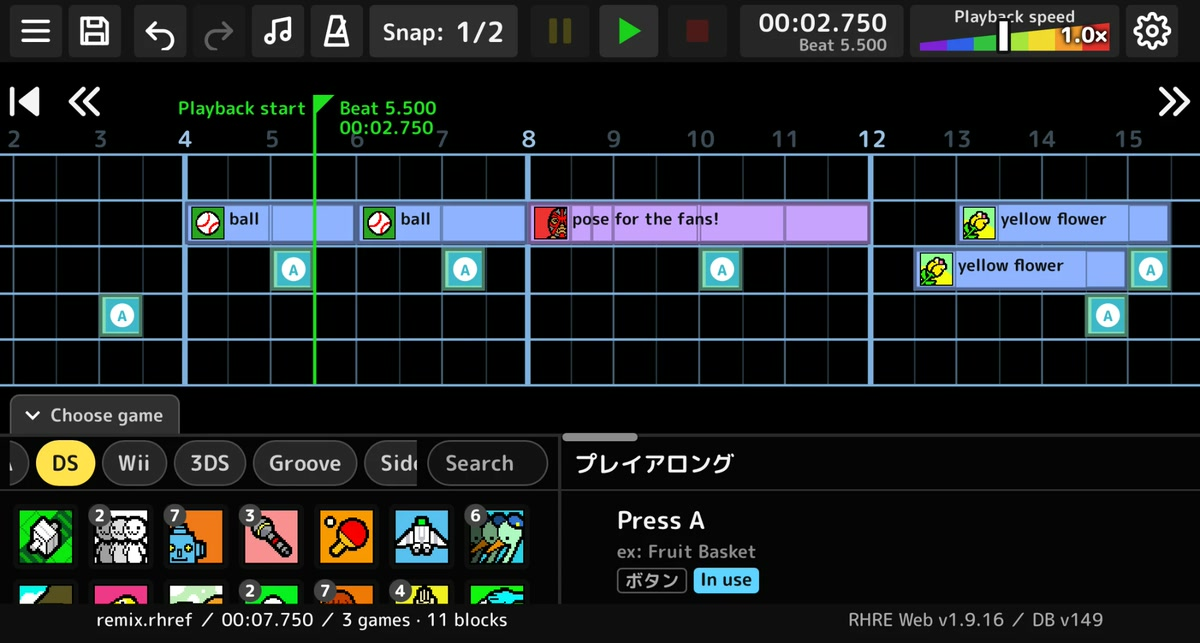
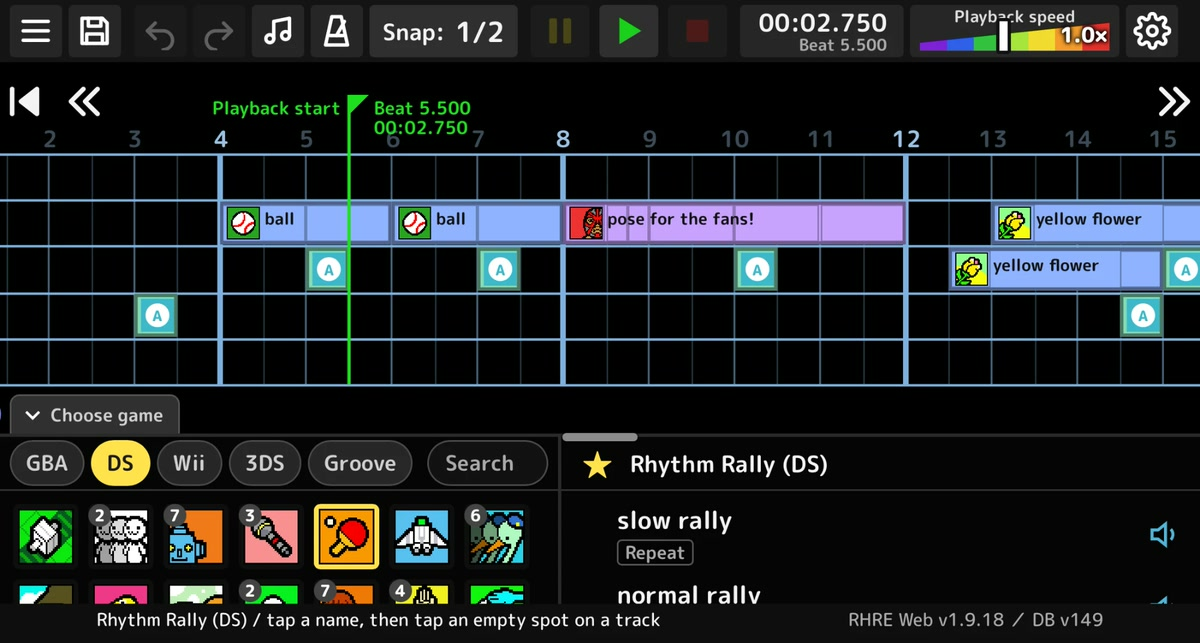
英語のページのリンクの画像を、本人が撮り直した英語の画面に差し替える（アプリは変わらないので版はそのまま）

diff --git a/en/index.html b/en/index.html
@@ -16,7 +16,7 @@
 <meta property="og:title" content="RHRE Web – Make Rhythm Heaven remixes in your browser">
 <meta property="og:description" content="Put Rhythm Heaven sound effects on your favorite songs and make your own remixes, right in your phone or PC browser. Free, fan-made, and compatible with RHRE fresh.">
 <meta property="og:url" content="https://pika1013.github.io/rhre-web/en/">
-<meta property="og:image" content="https://pika1013.github.io/rhre-web/assets/og/og-en.jpg?v=3">
+<meta property="og:image" content="https://pika1013.github.io/rhre-web/assets/og/og-en.jpg?v=4">
 <meta property="og:image:width" content="1200">
 <meta property="og:image:height" content="643">
 <meta property="og:image:alt" content="The RHRE Web editor">
@@ -119,7 +119,7 @@
   </div>
 
   <figure class="shot">
-    <img src="../assets/og/og-en.jpg?v=3" alt="The RHRE Web editor: remix blocks on tracks, with the minigame list and pattern list below" width="1200" height="643">
+    <img src="../assets/og/og-en.jpg?v=4" alt="The RHRE Web editor: remix blocks on tracks, with the minigame list and pattern list below" width="1200" height="643">
   </figure>
 
   <section>
